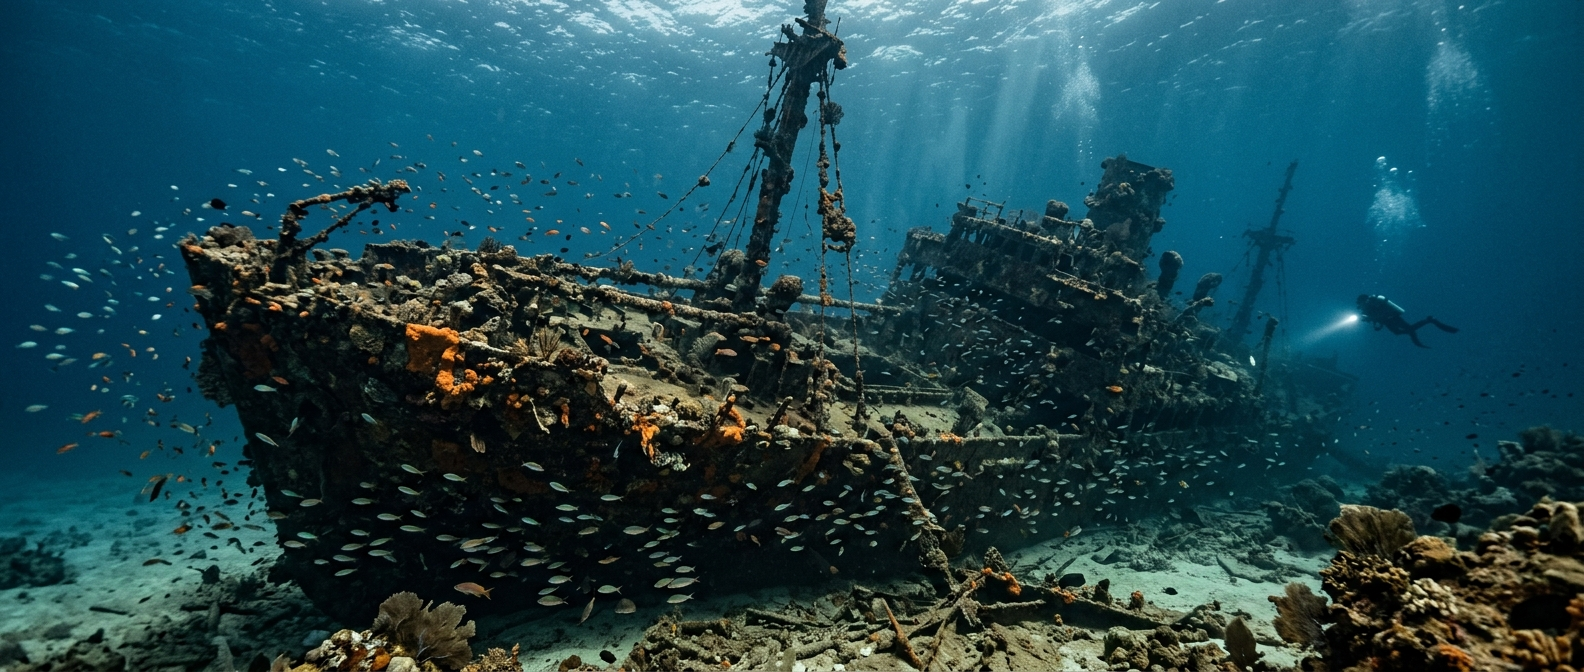
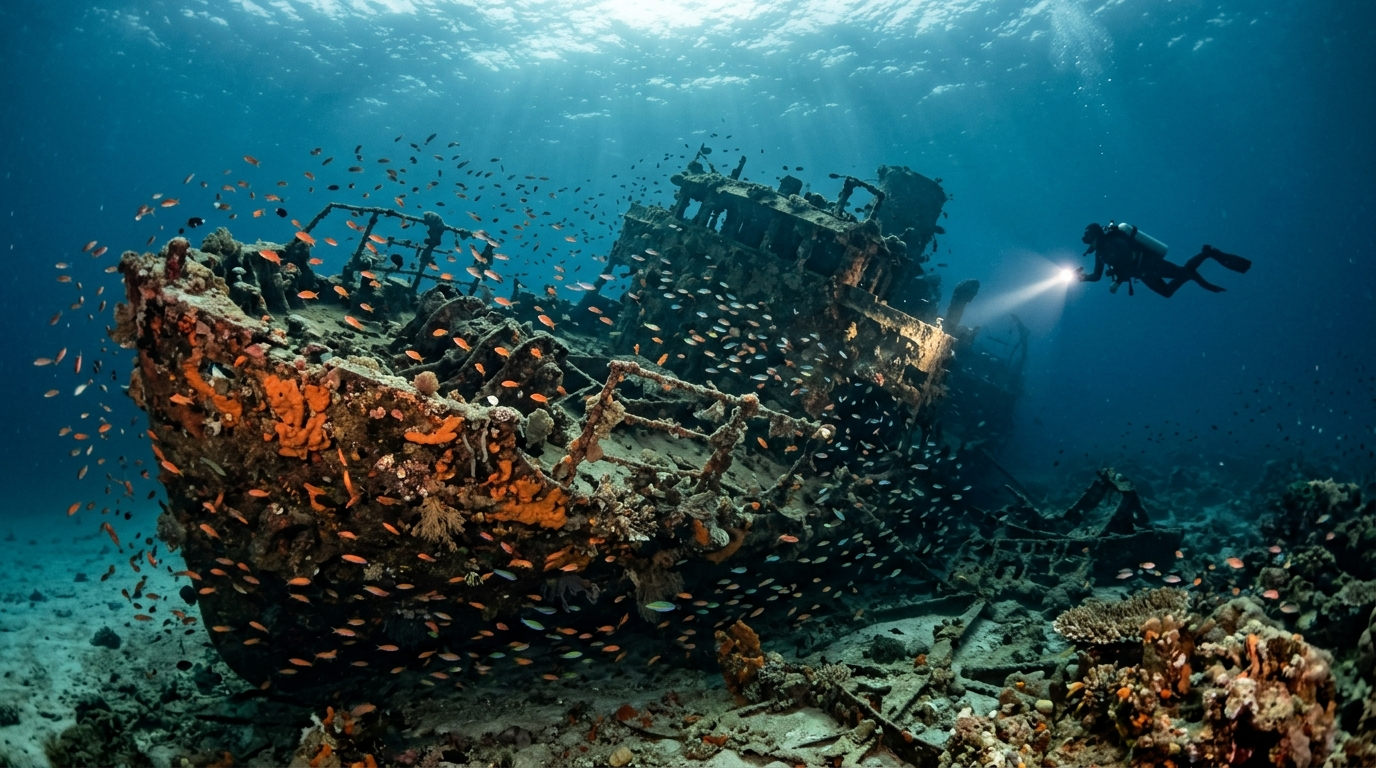
ui/listings: enforce 16:9 aspect on all listing image surfaces + regen 3 AI heroes at true 16:9
User reported: AI-generated listing heroes (1584x672 = 2.36:1) caused weird
vertical cropping on the ListingDetail hero. Standardise to 16:9 since user
uploads from phones/cameras are typically 16:9.

CSS — 4 listing-image surfaces wrapped in aspect-[16/9] container:
 - frontend/src/components/ListingCard.js          h-44  -> aspect-[16/9]
 - frontend/src/pages/Wishlist.js                  h-52  -> aspect-[16/9]
 - frontend/src/pages/listing/RichSections.js      h-72 md:h-96  -> aspect-[16/9]
   (PhotoGallery hero used by ListingDetail)
 - frontend/src/pages/OperatorDashboard.js         h-32 thumb  -> aspect-[16/9]
   (overview card grid only; the listings-tab w-20 h-20 square thumbnail
    is intentionally compact and left as-is)
 All four use object-cover w-full h-full so any source aspect crops cleanly.

AI image regen (Nano Banana, gemini-3.1-flash-image-preview, aspect_ratio=16:9):
 - advanced-wreck-diving-course.png       1376x768 ratio=1.792 (903 KB)
 - caribbean-liveaboard-adventure.png     1376x768 ratio=1.792 (930 KB)
 - sarah-thompson-padi-master-instructor.png 1376x768 ratio=1.792 (749 KB)
 (Gemini's 16:9 output is 1376x768; pre-CSS the closest landscape on
  the 'no aspect_ratio' default was 1584x672 = 2.36:1.)

Verified via Tailwind bounding-rect inspection on a static page using the
exact same class names:
  PhotoGallery hero (1280 vw)   864x486      ratio=1.778
  ListingCard 3-col grid (1280) 366x205.88   ratio=1.778
[…]

diff --git a/frontend/src/pages/Wishlist.js b/frontend/src/pages/Wishlist.js
@@ -67,7 +67,7 @@ export default function Wishlist() {
               const style = typeStyles[listing.type] || { bg: 'bg-slate-100 text-slate-700', label: listing.type };
               return (
                 <div key={listing.id} className="group relative overflow-hidden rounded-2xl bg-white border border-slate-100 shadow-[0_8px_30px_rgb(0,0,0,0.04)] hover:shadow-[0_20px_50px_rgb(0,0,0,0.1)] transition-all duration-500" data-testid="wishlist-card">
-                  <div className="relative h-52 overflow-hidden cursor-pointer" onClick={() => navigate(`/listing/${listing.id}`)}>
+                  <div className="relative aspect-[16/9] overflow-hidden cursor-pointer" onClick={() => navigate(`/listing/${listing.id}`)}>
                     <img src={listing.image_url} alt={listing.name} className="w-full h-full object-cover group-hover:scale-105 transition-transform duration-700" loading="lazy" />
                     <div className="absolute inset-0 bg-gradient-to-t from-black/30 to-transparent" />
                     <div className={`absolute top-3 right-3 px-3 py-1 rounded-full text-xs font-semibold ${style.bg}`}>{style.label}</div>

diff --git a/frontend/src/pages/OperatorDashboard.js b/frontend/src/pages/OperatorDashboard.js
@@ -259,8 +259,10 @@ export default function OperatorDashboard() {
                         <button key={dl.id} onClick={() => navigate(`/listing/${dl.id}`)}
                           className="text-left bg-slate-50 rounded-xl overflow-hidden hover:shadow-md transition-all border border-slate-100">
                           {dl.photos?.[0]?.url && (
-                            <img src={dl.photos[0].url.startsWith('/') ? `${process.env.REACT_APP_BACKEND_URL}${dl.photos[0].url}` : dl.photos[0].url}
-                              alt="" className="w-full h-32 object-cover" loading="lazy" />
+                            <div className="aspect-[16/9] overflow-hidden bg-slate-100">
+                              <img src={dl.photos[0].url.startsWith('/') ? `${process.env.REACT_APP_BACKEND_URL}${dl.photos[0].url}` : dl.photos[0].url}
+                                alt="" className="w-full h-full object-cover" loading="lazy" />
+                            </div>
                           )}
                           <div className="p-3">
                             <h3 className="font-bold text-sm truncate">{dl.title || 'Untitled'}</h3>

diff --git a/frontend/src/components/ListingCard.js b/frontend/src/components/ListingCard.js
@@ -39,7 +39,7 @@ export const ListingCard = memo(function ListingCard({ listing, convertPrice, wi
 
   return (
     <div className="group rounded-2xl border border-slate-100 bg-white shadow-[0_8px_30px_rgb(0,0,0,0.04)] hover:shadow-[0_20px_50px_rgb(0,0,0,0.08)] transition-all duration-500 overflow-hidden cursor-pointer" onClick={() => { trackEvent('listing_click', { listing_id: listing.id, name: listing.name }); onView(listing.id); }} data-testid="listing-card">
-      <div className="relative h-44 overflow-hidden">
+      <div className="relative aspect-[16/9] overflow-hidden">
         <img src={listing.image_url} alt={listing.name} className="w-full h-full object-cover group-hover:scale-105 transition-transform duration-700" loading="lazy" />
         <div className="absolute inset-0 bg-gradient-to-t from-black/40 to-transparent" />
         <div className={`absolute top-3 left-3 px-3 py-1 rounded-full text-xs font-semibold ${style.bg}`}>{style.label}</div>

diff --git a/frontend/src/pages/listing/RichSections.js b/frontend/src/pages/listing/RichSections.js
@@ -22,7 +22,7 @@ export function PhotoGallery({ photos = [], fallbackImageUrl, alt }) {
   const active = allPhotos[activeIdx] || allPhotos[0];
   return (
     <div data-testid="photo-gallery">
-      <div className="relative h-72 md:h-96 rounded-2xl overflow-hidden mb-3 bg-slate-100">
+      <div className="relative aspect-[16/9] rounded-2xl overflow-hidden mb-3 bg-slate-100">
         <img src={resolveUrl(active.url)} alt={active.caption || alt} className="w-full h-full object-cover" loading="lazy" />
         {allPhotos.length > 1 && (
           <div className="absolute bottom-3 right-3 px-2.5 py-1 rounded-full bg-black/60 backdrop-blur-sm text-white text-[11px] font-medium" data-testid="photo-count">
